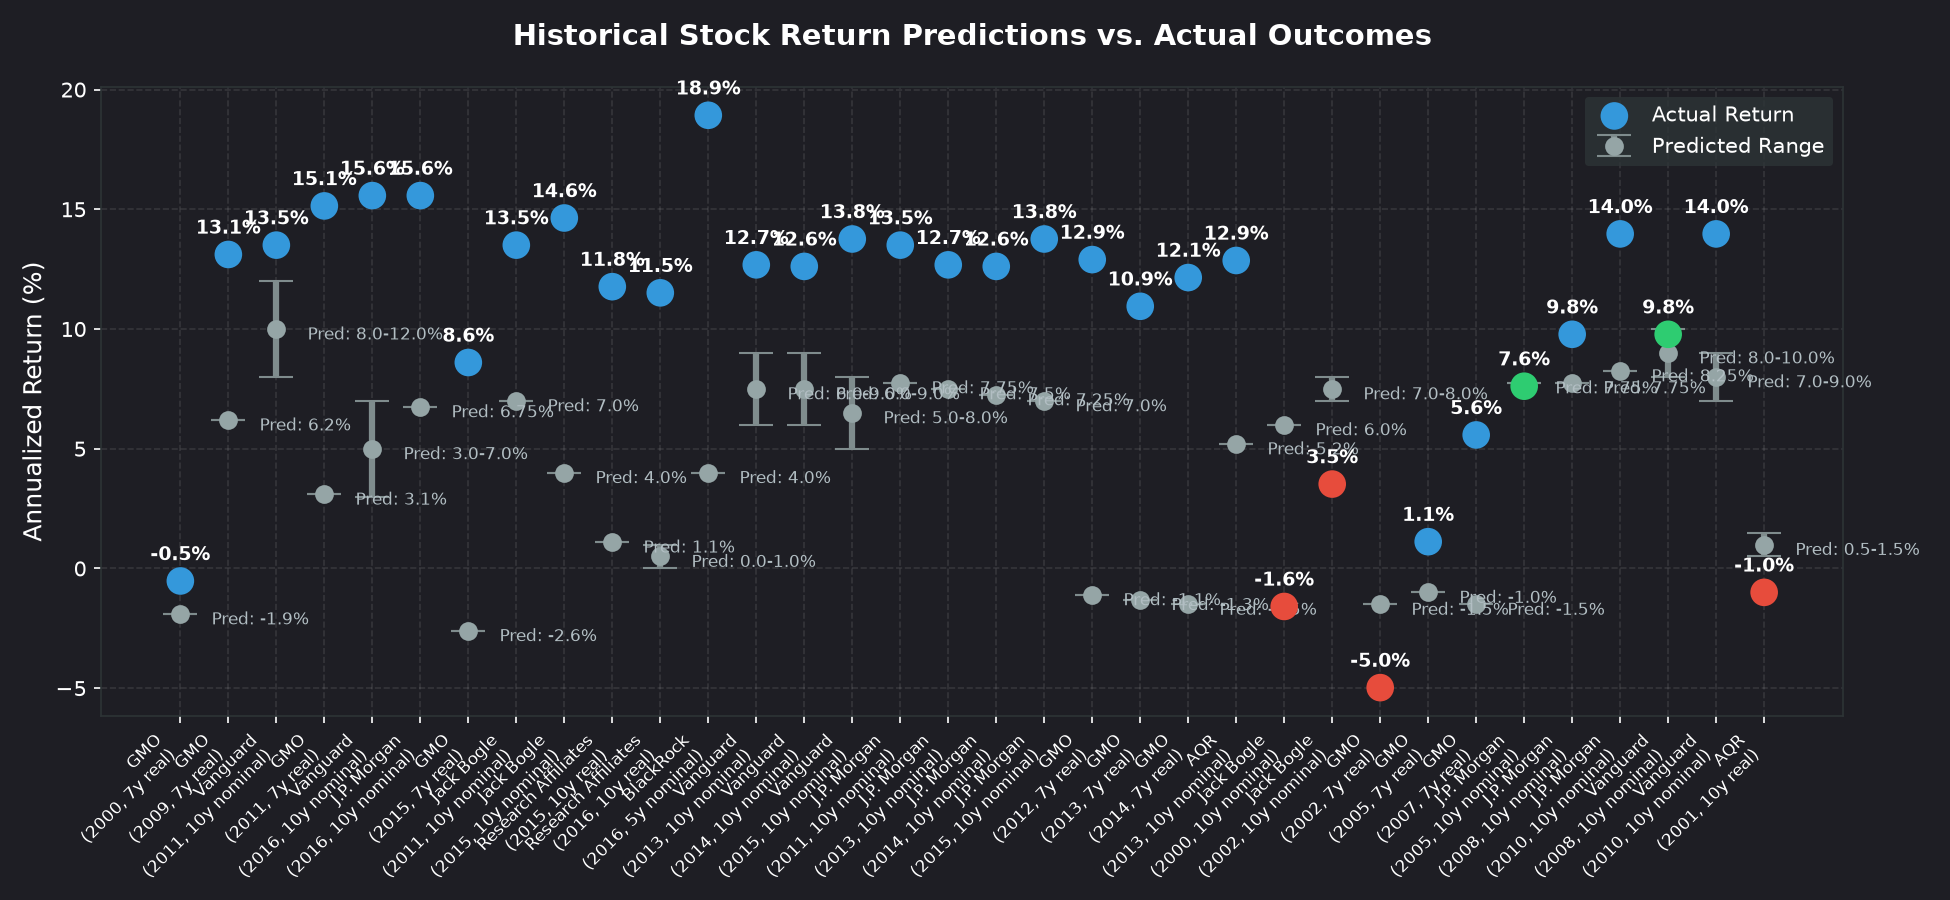
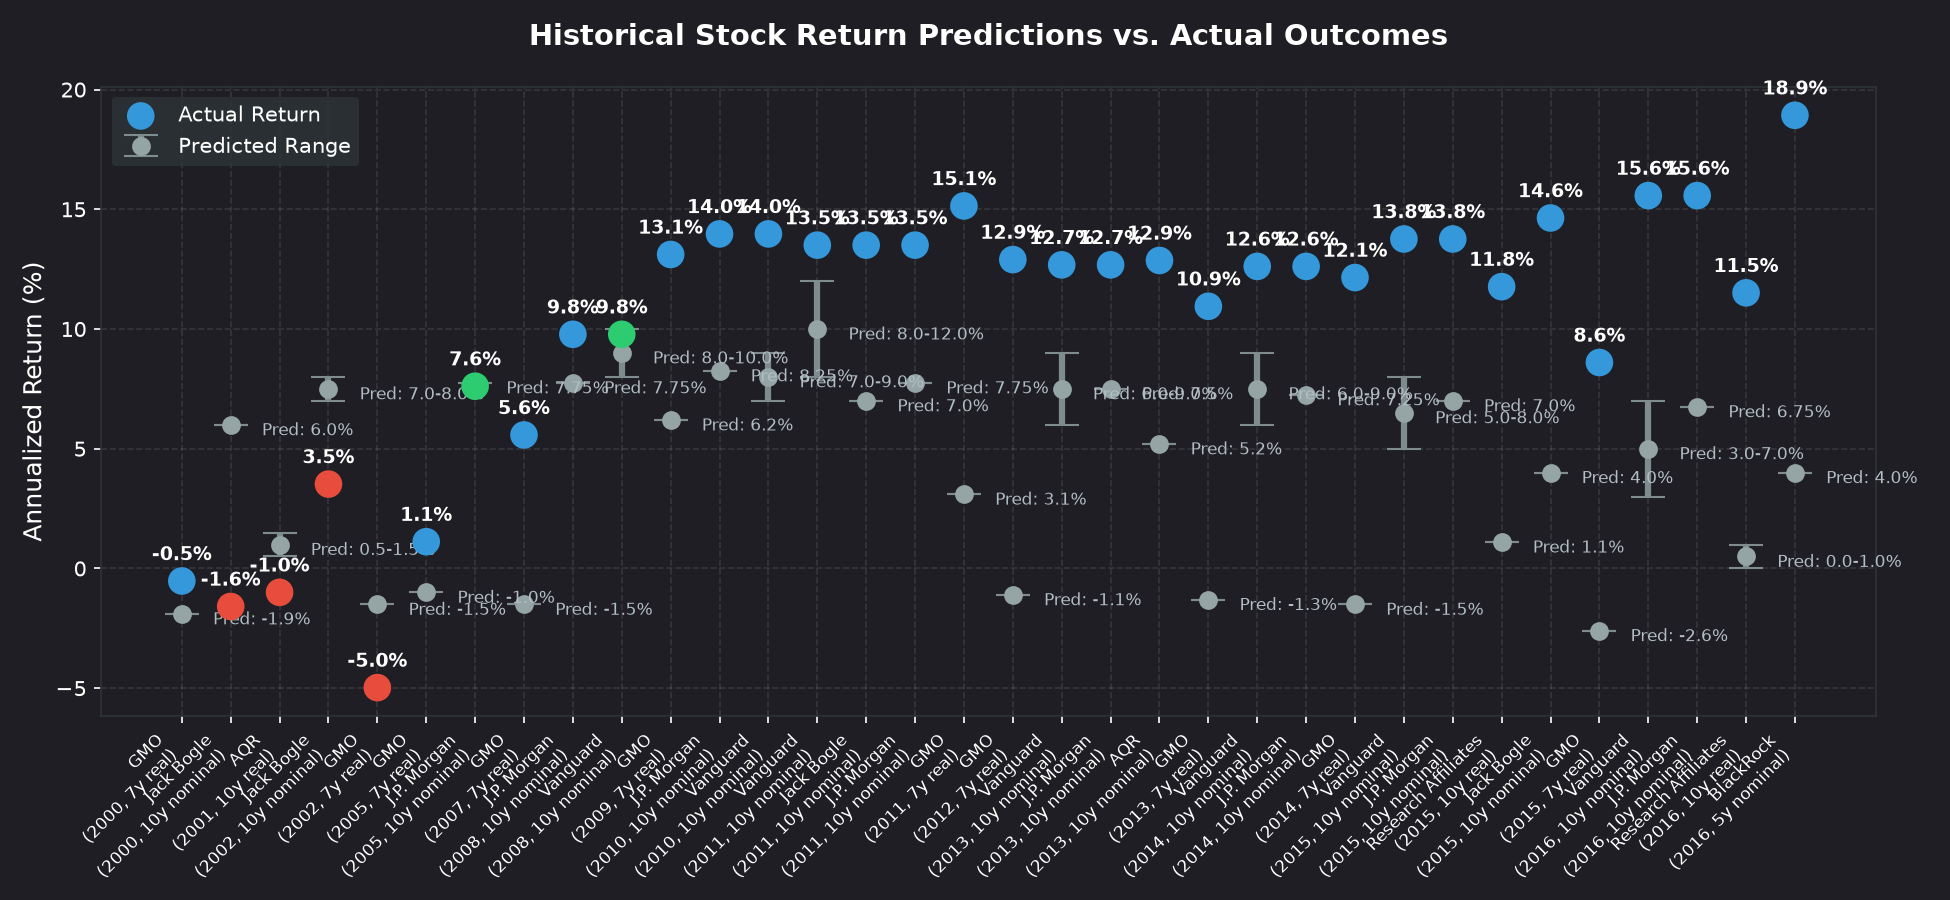
style: sort points in actual_vs_predicted chart chronologically by source_date

diff --git a/evaluate.py b/evaluate.py
@@ -241,6 +241,9 @@ def generate_chart(results):
         print("No elapsed results to plot.")
         return
         
+    # Sort elapsed results by date ascending
+    elapsed_results = sorted(elapsed_results, key=lambda x: x['source_date'])
+        
     fig, ax = plt.subplots(figsize=(13, 6), facecolor="#1e1e24")
     ax.set_facecolor("#1e1e24")
     
